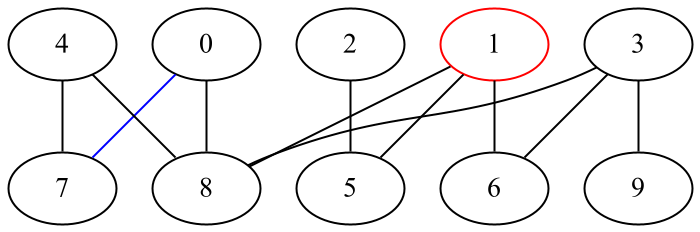
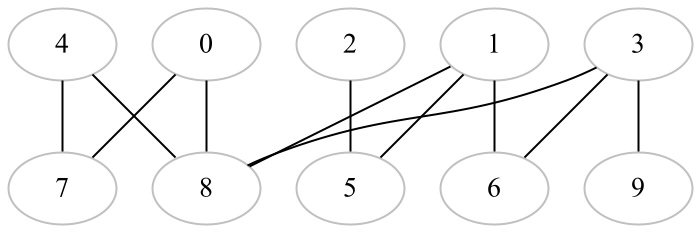
bfs alg example

diff --git a/src/main/java/pl/marcb/BfsAlg.java b/src/main/java/pl/marcb/BfsAlg.java
@@ -1,0 +1,135 @@
+package pl.marcb;
+
+import java.io.IOException;
+import java.nio.file.Files;
+import java.nio.file.Paths;
+import java.util.ArrayList;
+import java.util.Arrays;
+import java.util.Collection;
+import java.util.List;
+import java.util.stream.Collectors;
+
+public class BfsAlg {
+    public String path;
+    private List<String> lines = new ArrayList<>();
+
+    private List<Point> points = new ArrayList<>();
+
+    private int genIndex = 0;
+
+    public BfsAlg(String path) throws IOException {
+        this.path = path;
+        lines = Files.readAllLines(Paths.get(path));
+    }
+
+    public void generate() throws IOException {
+        String firstValue = getFirstValue();
+        generateGrayPoints();
+        List<Link> linksFromValue = getLinksFromValue(firstValue);
+        generatePoints(1L);
+        String st = "";
+    }
+
+
+    private void generatePoints(Long index) throws IOException {
+        StringBuilder sb = new StringBuilder();
+        sb.append("graph {").append("\n");
+
+        for (int i = 0; i < points.size(); i++) {
+            String value = points.get(i).value;
+            sb.append(value + "[color = " + getPointColor(value) + "]");
+        }
+        sb.append("\n\n");
+
+        for (int i = 0; i < lines.size(); i++) {
+            List<String> line = Arrays.stream(lines.get(i).split(" ")).collect(Collectors.toList());
+            sb.append("\t").append(String.join(" -- ", line)).append("\n");
+        }
+        sb.append("}");
+
+        new Parser("C:\\Users\\bartek\\Desktop\\mgr\\bipartitegraphapp\\example\\graph2.dot",
+                "C:\\Users\\bartek\\Desktop\\mgr\\bipartitegraphapp\\example\\ex4-" + index + ".png").parseFile(sb.toString());
+    }
+
+    private String getPointColor(String value) {
+        List<Point> point = points.stream().filter(c -> c.getValue().equals(value)).collect(Collectors.toList());
+        if (point.size() == 0) {
+            return ColorEnum.gray.name();
+        } else {
+            return point.get(0).getColor().name();
+        }
+    }
+
+    private void generateGrayPoints() {
+        points = lines.stream().map(c -> Arrays.asList(c.split(" ")))
+                .flatMap(Collection::stream).collect(Collectors.toSet())
+                .stream().map(c -> new Point(c, ColorEnum.gray)).collect(Collectors.toList());
+    }
+
+    private List<Link> getLinksFromValue(String value) {
+        return lines.stream().map(c -> c.split(" "))
+                .filter(c -> c[0].equals(value))
+                .map(c -> new Link(value, c[1]))
+                .collect(Collectors.toList());
+    }
+
+    private String getFirstValue() {
+        return lines.get(0).split(" ")[0];
+    }
+
+    public class Point {
+        private String value;
+        private ColorEnum color;
+
+        public Point(String value, ColorEnum color) {
+            this.value = value;
+            this.color = color;
+        }
+
+        public String getValue() {
+            return value;
+        }
+
+        public void setValue(String value) {
+            this.value = value;
+        }
+
+        public ColorEnum getColor() {
+            return color;
+        }
+
+        public void setColor(ColorEnum color) {
+            this.color = color;
+        }
+    }
+
+    private enum ColorEnum {
+        gray, blue, red, yellow;
+    }
+
+    public class Link {
+        private String from;
+        private String to;
+
+        public Link(String from, String to) {
+            this.from = from;
+            this.to = to;
+        }
+
+        public String getFrom() {
+            return from;
+        }
+
+        public void setFrom(String from) {
+            this.from = from;
+        }
+
+        public String getTo() {
+            return to;
+        }
+
+        public void setTo(String to) {
+            this.to = to;
+        }
+    }
+}

diff --git a/src/main/java/pl/marcb/Main.java b/src/main/java/pl/marcb/Main.java
@@ -4,13 +4,11 @@ package pl.marcb;
 import java.io.IOException;
 
 
-
 public class Main {
     public static void main(String[] args) throws IOException {
-        new Parser("C:\\Users\\bartek\\Desktop\\mgr\\bipartitegraphapp\\example\\graph2.dot",
-                "C:\\Users\\bartek\\Desktop\\mgr\\bipartitegraphapp\\example\\ex4-1.png").parseFile();
-//        Testy test = new Testy();
-//        test.start();
+        new BfsAlg("C:\\Users\\bartek\\Desktop\\mgr\\bipartitegraphapp\\example\\graph").generate();
+//        new Parser("C:\\Users\\bartek\\Desktop\\mgr\\bipartitegraphapp\\example\\graph2.dot",
+//                "C:\\Users\\bartek\\Desktop\\mgr\\bipartitegraphapp\\example\\ex4-1.png").parseFile();
     }
 
 }

diff --git a/src/main/java/pl/marcb/Parser.java b/src/main/java/pl/marcb/Parser.java
@@ -20,4 +20,9 @@ public class Parser {
         MutableGraph g = guru.nidi.graphviz.parse.Parser.read(new File(graphFile));
         Graphviz.fromGraph(g).width(700).render(Format.PNG).toFile(new File(imageFile));
     }
+
+    public void parseFile(String dotFile) throws IOException {
+        MutableGraph g = guru.nidi.graphviz.parse.Parser.read(dotFile);
+        Graphviz.fromGraph(g).width(700).render(Format.PNG).toFile(new File(imageFile));
+    }
 }
